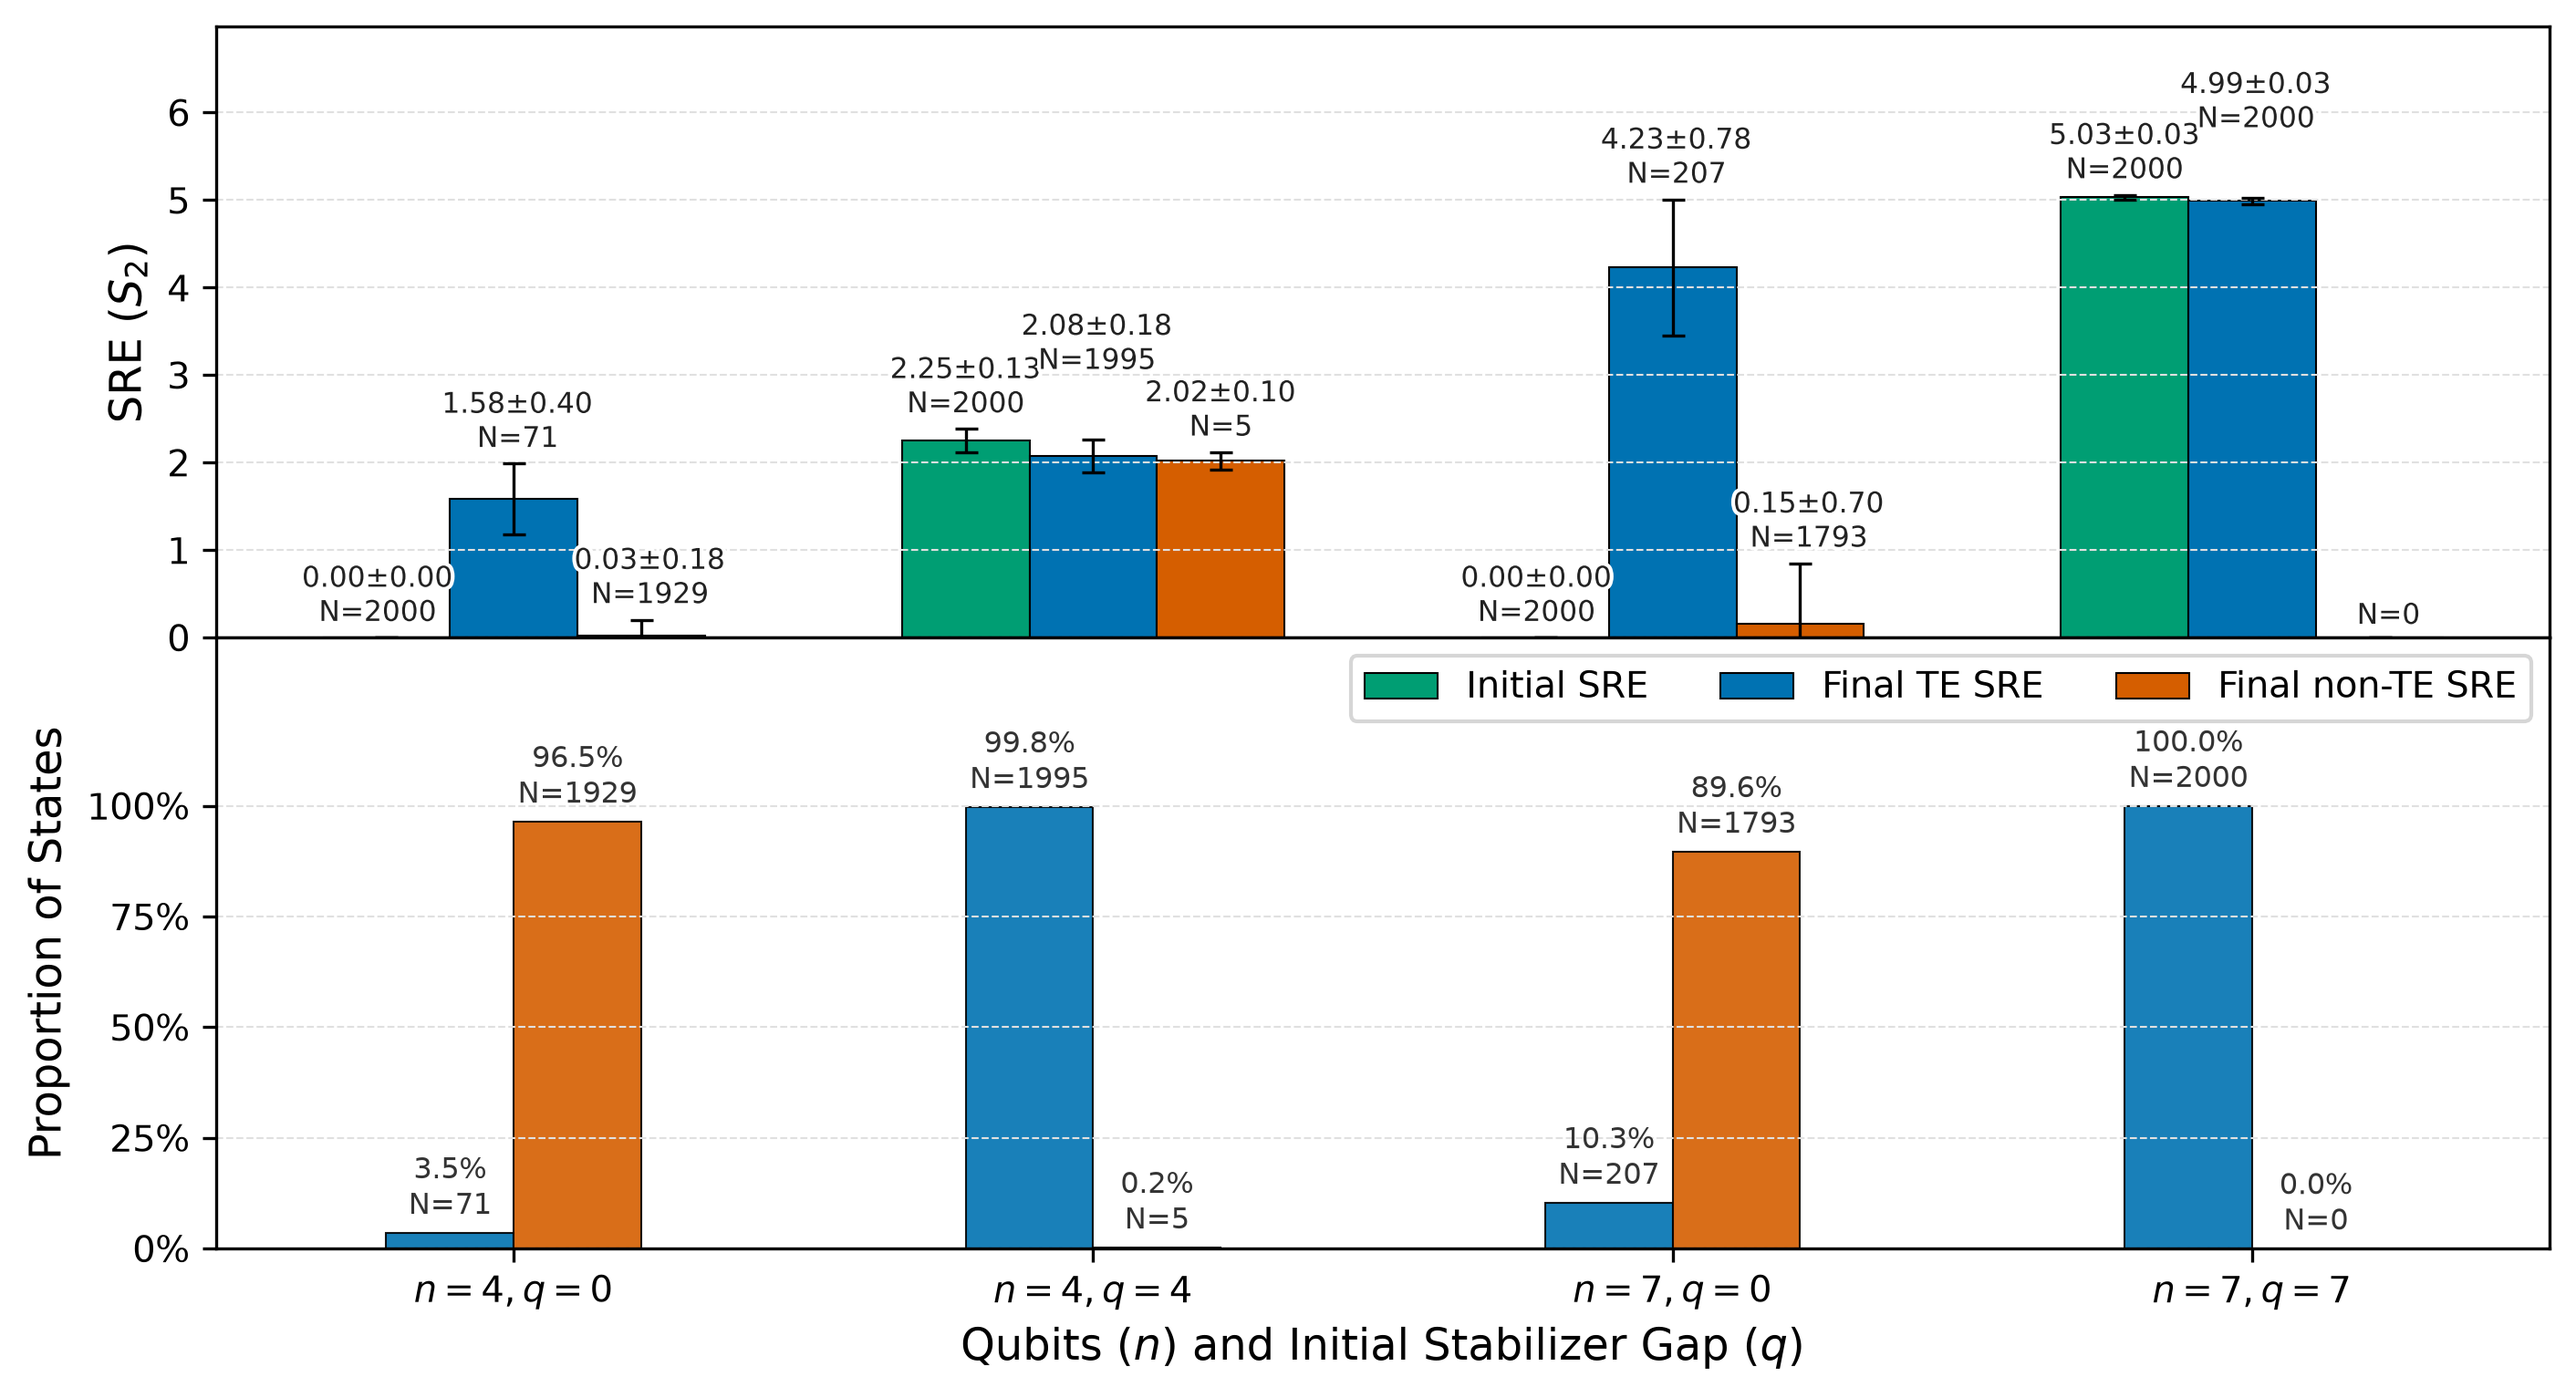
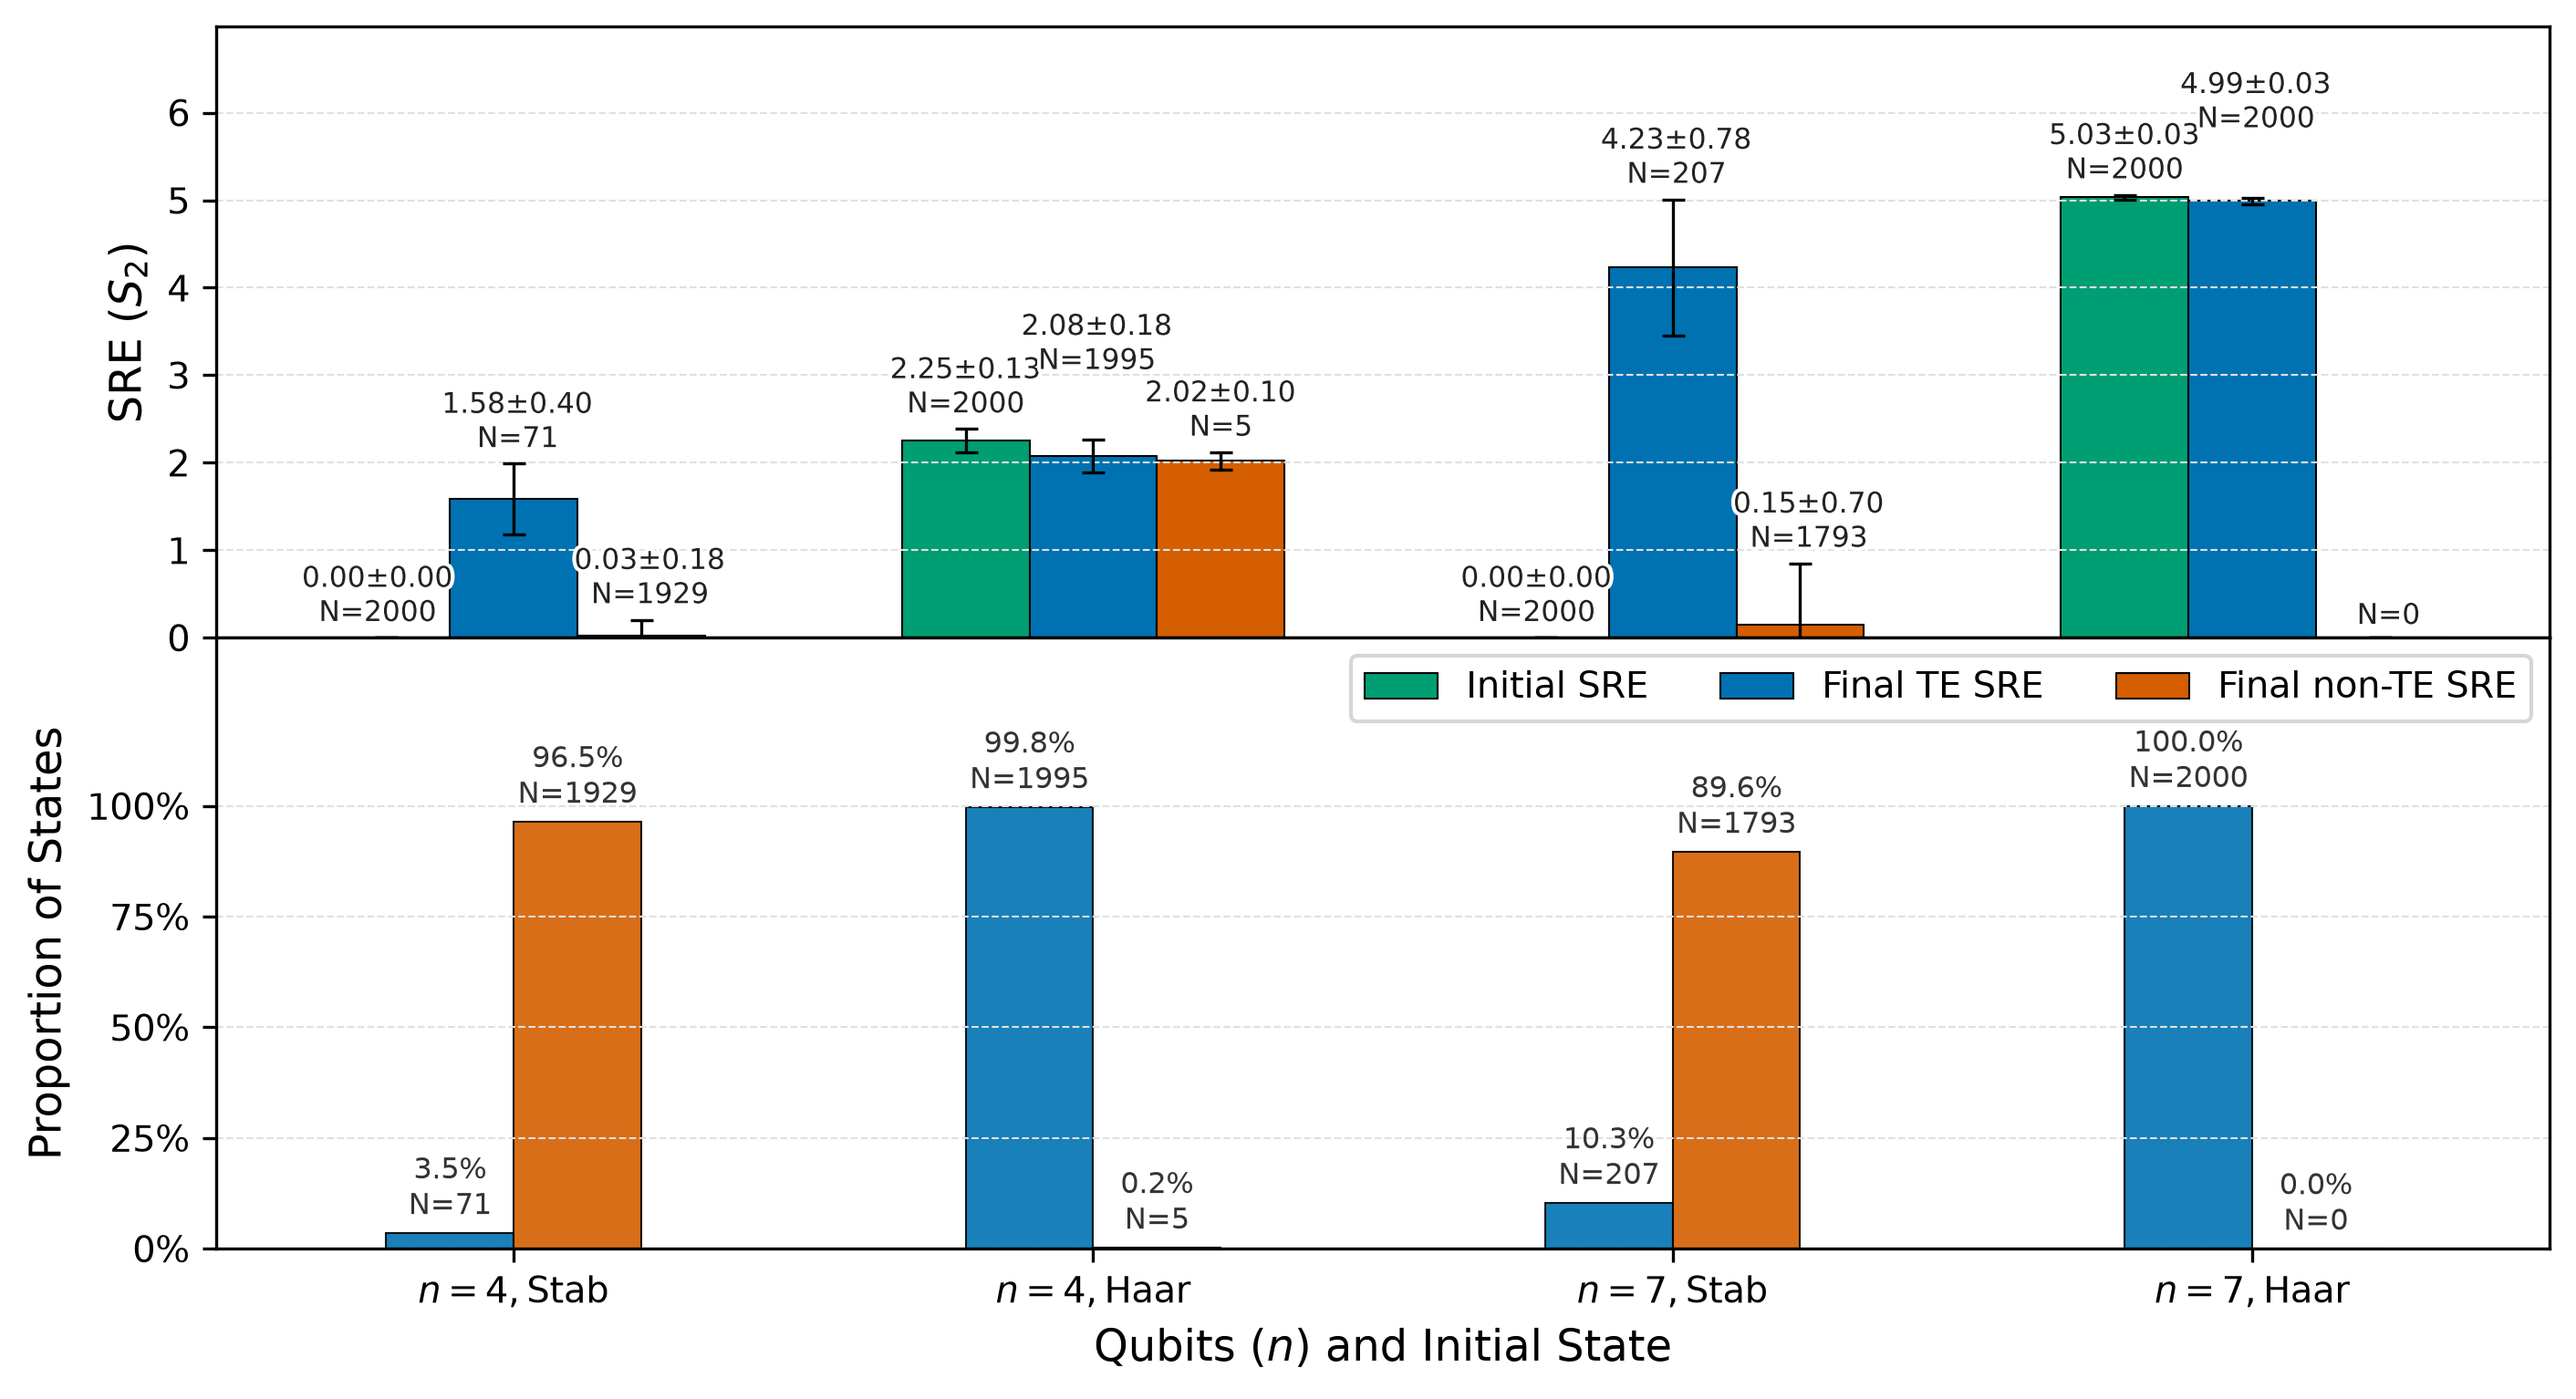
style: label q=0 as Stab and q=n as Haar in initial_magic plot

diff --git a/initial_magic.py b/initial_magic.py
@@ -124,7 +124,8 @@ def plot_initial_magic_hist(loaded_data, output_path="Initial_Magic_plots/Initia
             else:
                 non_te_vals.append(final_sre)
 
-        x_labels.append(f"$n={info['qbt']}, q={info['gap']}$")
+        state_name = "Stab" if info["gap"] == 0 else "Haar"
+        x_labels.append(f"$n={info['qbt']}, \\text{{{state_name}}}$")
 
         init_centers.append(np.mean(init_vals) if init_vals else 0.0)
         init_errs.append(np.std(init_vals) if len(init_vals) > 1 else 0.0)
@@ -329,7 +330,7 @@ def plot_initial_magic_hist(loaded_data, output_path="Initial_Magic_plots/Initia
     ax2.set_xticks(x)
     ax2.set_xticklabels(x_labels, fontsize=10.5)
     ax2.tick_params(axis="both", labelsize=9.5)
-    ax2.set_xlabel(r"$\text{Qubits } (n) \text{ and Initial Stabilizer Gap } (q)$", fontsize=11.5)
+    ax2.set_xlabel(r"$\text{Qubits } (n) \text{ and Initial State}$", fontsize=11.5)
     ax2.set_ylabel(r"$\text{Proportion of States}$", fontsize=11.5)
     ax2.set_ylim(0, 1.38)
     ax2.set_yticks([0.0, 0.25, 0.50, 0.75, 1.00])
